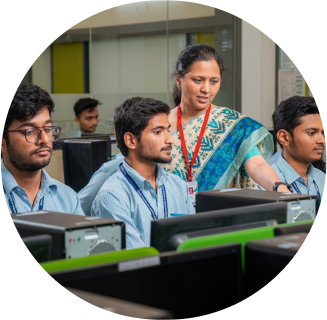
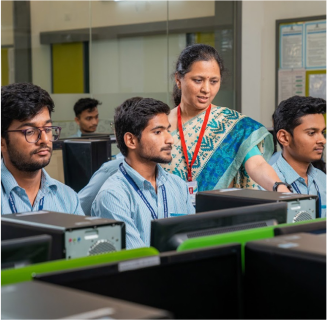
department and resources page

diff --git a/client/src/components/admin/departments.jsx b/client/src/components/admin/departments.jsx
@@ -2,42 +2,49 @@ import React from 'react'
 
 export default function Department() {
   return (
-    <div className='flex flex-col gap-4'>
-    <div className='w-[100%] h-80 border-2 rounded-lg border-b-4 border-b-Dblue flex flex-col'>
-      <div className='w-[100%] h-20 bg-Dblue overflow-hidden text-white p-2 rounded-t-lg'>
-        <h1 className='text-xl'>Department of</h1>
-        <h1 className='text-3xl font-semibold'>Computer Engineering</h1>
+    <div className='flex flex-col m-4 gap-4 max-w-[1000px] self-center'>
+
+        <div className='w-[100%] h-fit relative border-2 rounded-lg border-b-4 border-b-Dblue flex flex-col'>
+          <div className='w-[100%] h-fit bg-Dblue overflow-hidden text-white p-2 rounded-t-lg '>
+            <h1 className='text-xl'>Department of</h1>
+            <h1 className='sm:text-3xl text-2xl font-semibold'>Computer Engineering</h1>
+          </div>
+          <img src="/department1.png" alt="" className='w-auto sm:h-64 h-[100%] m-2 object-contain sm:absolute sm:right-8 sm:top-1/2 sm:transform sm:-translate-y-1/2 sm:rounded-full' />
+          <div className='sm:w-[65%] w-[100%] h-fit text-gray-700 p-4 mb-8 gap-2 flex flex-col font-medium '>
+            <li>Twice Accredited by AICTE-NBA</li>
+            <li>Curriculum as per NEP 2020 guidelines</li>
+            <li>Well-furnished labs with Computers of latest configuration and required Software</li>
+            <li>Opportunity for students for self-learning, self-development and lifelong learning through MOOCs and Industry Internships and Projects</li>
+          </div>
+        </div>
+
+        <div className='w-[100%] h-fit relative border-2 rounded-lg border-b-4 border-b-Dblue flex flex-col'>
+          <div className='w-[100%] h-fit bg-Dblue overflow-hidden text-white p-2 rounded-t-lg '>
+            <h1 className='text-xl'>Department of</h1>
+            <h1 className='sm:text-3xl text-2xl font-semibold'>Artificial Intelligence & Data science</h1>
+          </div>
+          <img src="/department2.png" alt="" className='w-auto sm:h-64 h-[100%] m-2 object-contain sm:absolute sm:right-8 sm:top-1/2 sm:transform sm:-translate-y-1/2 sm:rounded-full' />
+          <div className='sm:w-[65%] w-[100%] h-fit text-gray-700 p-4 mb-12 gap-2 flex flex-col font-medium '>
+            <li>High Demand for IT Professionals</li>
+            <li>Diverse Career Opportunities</li>
+            <li>Continuous Learning and Adaptation</li>
+            <li>Competitive Salaries</li>
+          </div>
+        </div>
+        
+        <div className='w-[100%] h-fit relative border-2 rounded-lg border-b-4 border-b-Dblue flex flex-col'>
+          <div className='w-[100%] h-fit bg-Dblue overflow-hidden text-white p-2 rounded-t-lg '>
+            <h1 className='text-xl'>Department of</h1>
+            <h1 className='sm:text-3xl text-2xl font-semibold'>Computer Science and Design</h1>
+          </div>
+          <img src="/department3.png" alt="" className='w-auto sm:h-64 h-[100%] m-2 object-contain sm:absolute sm:right-8 sm:top-1/2 sm:transform sm:-translate-y-1/2 sm:rounded-full' />
+          <div className='sm:w-[65%] w-[100%] h-fit text-gray-700 p-4 mb-8 gap-2 flex flex-col font-medium'>
+            <li>Twice Accredited by AICTE-NBA</li>
+            <li>Curriculum as per NEP 2020 guidelines</li>
+            <li>Well-furnished labs with Computers of latest configuration and required Software</li>
+            <li>Opportunity for students for self-learning, self-development and lifelong learning through MOOCs and Industry Internships and Projects</li>
+          </div>
+        </div>
       </div>
-      <div className='w-[65%] h-60 text-gray-700 p-4 gap-2 flex flex-col font-medium'>
-        <li>Twice Accredited by AICTE-NBA</li>
-        <li>Curriculum as per NEP 2020 guidelines</li>
-        <li>Well-furnished labs with Computers of latest configuration and required Software</li>
-        <li>Opportunity for students for self-learning, self-development and lifelong learning through MOOCs and Industry Internships and Projects</li>
-      </div>
-    </div>
-    <div className='w-[100%] h-80 border-2 rounded-lg border-b-4 border-b-Dblue flex flex-col'>
-    <div className='w-[100%] h-20 bg-Dblue overflow-hidden text-white p-2 rounded-t-lg'>
-      <h1 className='text-xl'>Department of</h1>
-      <h1 className='text-3xl font-semibold'>Artificial Intelligence and Data science</h1>
-    </div>
-    <div className='w-[65%] h-60 text-gray-700 p-4 gap-2 flex flex-col font-medium'>
-      <li>High Demand for IT Professionals</li>
-      <li>Diverse Career Opportunities</li>
-      <li>Continuous Learning and Adaptation</li>
-      <li>Competitive Salaries</li>
-    </div>
-  </div><div className='w-[100%] h-80 border-2 rounded-lg border-b-4 border-b-Dblue flex flex-col'>
-      <div className='w-[100%] h-20 bg-Dblue overflow-hidden text-white p-2 rounded-t-lg'>
-        <h1 className='text-xl'>Department of</h1>
-        <h1 className='text-3xl font-semibold'>Computer Science and Design</h1>
-      </div>
-      <div className='w-[65%] h-60 text-gray-700 p-4 gap-2 flex flex-col font-medium'>
-        <li>Twice Accredited by AICTE-NBA</li>
-        <li>Curriculum as per NEP 2020 guidelines</li>
-        <li>Well-furnished labs with Computers of latest configuration and required Software</li>
-        <li>Opportunity for students for self-learning, self-development and lifelong learning through MOOCs and Industry Internships and Projects</li>
-      </div>
-    </div>
-    </div>
   )
 }

diff --git a/client/src/components/onHome/department.jsx b/client/src/components/onHome/department.jsx
@@ -5,38 +5,45 @@ import Footer from '../footer'
 
 const Department = () => {
   return (
-    <div className='flex flex-col '>
+    <div className='flex flex-col'>
       <Header />
-      <div className='flex flex-col m-8 gap-4'>
-        <div className='w-[100%] h-80 border-2 rounded-lg border-b-4 border-b-Dblue flex flex-col'>
-          <div className='w-[100%] h-20 bg-Dblue overflow-hidden text-white p-2 rounded-t-lg max-md:h-auto'>
+      <div className='flex flex-col m-4 gap-4 max-w-[1000px] self-center'>
+
+        <div className='w-[100%] h-fit relative border-2 rounded-lg border-b-4 border-b-Dblue flex flex-col'>
+          <div className='w-[100%] h-fit bg-Dblue overflow-hidden text-white p-2 rounded-t-lg '>
             <h1 className='text-xl'>Department of</h1>
-            <h1 className='text-3xl font-semibold'>Computer Engineering</h1>
+            <h1 className='sm:text-3xl text-2xl font-semibold'>Computer Engineering</h1>
           </div>
-          <div className='w-[65%] h-60 text-gray-700 p-4 gap-2 flex flex-col font-medium max-md:w-fit'>
+          <img src="/department1.png" alt="" className='w-auto sm:h-64 h-[100%] m-2 object-contain sm:absolute sm:right-8 sm:top-1/2 sm:transform sm:-translate-y-1/2 sm:rounded-full' />
+          <div className='sm:w-[65%] w-[100%] h-fit text-gray-700 p-4 mb-8 gap-2 flex flex-col font-medium '>
             <li>Twice Accredited by AICTE-NBA</li>
             <li>Curriculum as per NEP 2020 guidelines</li>
             <li>Well-furnished labs with Computers of latest configuration and required Software</li>
             <li>Opportunity for students for self-learning, self-development and lifelong learning through MOOCs and Industry Internships and Projects</li>
           </div>
         </div>
-        <div className='w-[100%] h-80 border-2 rounded-lg border-b-4 border-b-Dblue flex flex-col'>
-          <div className='w-[100%] h-20 bg-Dblue overflow-hidden text-white p-2 rounded-t-lg max-md:h-auto'>
+
+        <div className='w-[100%] h-fit relative border-2 rounded-lg border-b-4 border-b-Dblue flex flex-col'>
+          <div className='w-[100%] h-fit bg-Dblue overflow-hidden text-white p-2 rounded-t-lg '>
             <h1 className='text-xl'>Department of</h1>
-            <h1 className='text-3xl font-semibold'>Artificial Intelligence and Data science</h1>
+            <h1 className='sm:text-3xl text-2xl font-semibold'>Artificial Intelligence & Data science</h1>
           </div>
-          <div className='w-[65%] h-60 text-gray-700 p-4 gap-2 flex flex-col font-medium max-md:w-fit'>
+          <img src="/department2.png" alt="" className='w-auto sm:h-64 h-[100%] m-2 object-contain sm:absolute sm:right-8 sm:top-1/2 sm:transform sm:-translate-y-1/2 sm:rounded-full' />
+          <div className='sm:w-[65%] w-[100%] h-fit text-gray-700 p-4 mb-12 gap-2 flex flex-col font-medium '>
             <li>High Demand for IT Professionals</li>
             <li>Diverse Career Opportunities</li>
             <li>Continuous Learning and Adaptation</li>
             <li>Competitive Salaries</li>
           </div>
-        </div><div className='w-[100%] h-80 border-2 rounded-lg border-b-4 border-b-Dblue flex flex-col'>
-          <div className='w-[100%] h-20 bg-Dblue overflow-hidden text-white p-2 rounded-t-lg max-md:h-auto'>
+        </div>
+        
+        <div className='w-[100%] h-fit relative border-2 rounded-lg border-b-4 border-b-Dblue flex flex-col'>
+          <div className='w-[100%] h-fit bg-Dblue overflow-hidden text-white p-2 rounded-t-lg '>
             <h1 className='text-xl'>Department of</h1>
-            <h1 className='text-3xl font-semibold'>Computer Science and Design</h1>
+            <h1 className='sm:text-3xl text-2xl font-semibold'>Computer Science and Design</h1>
           </div>
-          <div className='w-[65%] h-60 text-gray-700 p-4 gap-2 flex flex-col font-medium max-md:w-fit'>
+          <img src="/department3.png" alt="" className='w-auto sm:h-64 h-[100%] m-2 object-contain sm:absolute sm:right-8 sm:top-1/2 sm:transform sm:-translate-y-1/2 sm:rounded-full' />
+          <div className='sm:w-[65%] w-[100%] h-fit text-gray-700 p-4 mb-8 gap-2 flex flex-col font-medium'>
             <li>Twice Accredited by AICTE-NBA</li>
             <li>Curriculum as per NEP 2020 guidelines</li>
             <li>Well-furnished labs with Computers of latest configuration and required Software</li>

diff --git a/client/src/components/onHome/resources.jsx b/client/src/components/onHome/resources.jsx
@@ -10,31 +10,35 @@ const Resources = () => {
     navigate('/course-material');
   };
   return (
-    <div>
-      <Header/>
+    <div >
+      <Header />
+<div className='h-fit sm:h-[100vh]'>
+      <div className="flex flex-wrap gap-4  justify-center m-auto w-[100%] ">
 
-      <div className="flex flex-wrap gap-4  justify-center items-center m-auto w-[80%] h-[100vh] ">
-        <div className='m-6 relative '>
+        <div className='m-6 relative h-fit'>
           <div className='h-[6rem] w-[6rem] rounded-full bg-[#fff] p-2 flex justify-center items-center relative left-1/3 top-10 cursor-pointer border-solid border-2 shadow-lg shadow-[#00000033]' onClick={handleClick}>
             <img src="/amico.png" alt="" />
           </div>
           <div className='h-[8rem] w-[20rem] bg-white flex justify-center items-center m-auto cursor-pointer shadow-xl shadow-[#00000033] rounded-md font-bold' onClick={handleClick}><h1>Course Material</h1></div>
         </div>
-        <div className='m-6 relative '>
+
+        <div className='m-6 relative h-fit'>
           <div className='h-[6rem] w-[6rem] rounded-full bg-[#fff] p-4 flex justify-center items-center relative left-1/3 top-10 cursor-pointer border-solid border-2 shadow-lg shadow-[#00000033]' onClick={handleClick}>
             <img src="/bro.png" alt="" />
           </div>
           <div className='h-[8rem] w-[20rem] bg-white flex justify-center items-center m-auto cursor-pointer shadow-xl shadow-[#00000033] rounded-md font-bold' onClick={handleClick}><h1>Research Publication</h1></div>
         </div>
-        <div className='m-6 relative '>
+
+        <div className='m-6 relative h-fit'>
           <div className='h-[6rem] w-[6rem] rounded-full bg-[#fff] p-4 flex justify-center items-center relative left-1/3 top-10 cursor-pointer border-solid border-2 shadow-lg shadow-[#00000033]' onClick={handleClick}>
             <img src="/Vector.png" alt="" />
           </div>
           <div className='h-[8rem] w-[20rem] bg-white flex justify-center items-center m-auto cursor-pointer shadow-xl shadow-[#00000033] rounded-md font-bold' onClick={handleClick}><h1>Department Information</h1></div>
         </div>
-      </div>
 
-      <Footer/>
+      </div>
+      </div>
+      <Footer />
     </div>
   )
 }
